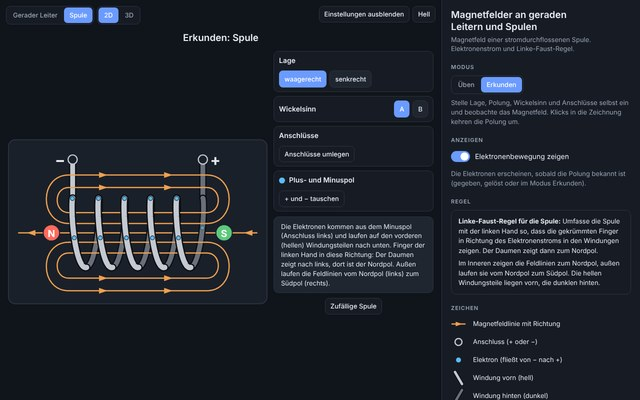
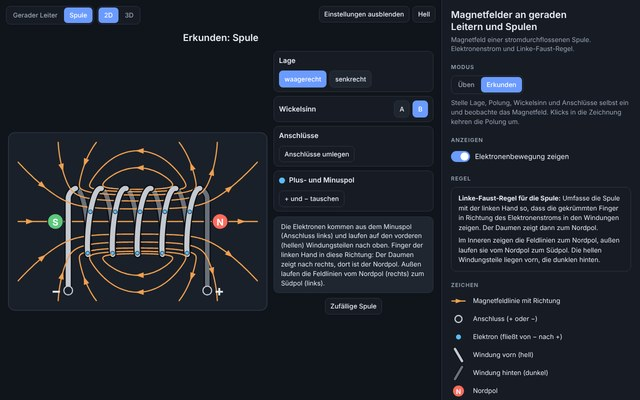
Magnetfelder: berechnete Feldlinien, Zuleitungen ohne Knick, Anschlüsse auf einer Seite
- Feldlinien der Spule per Biot-Savart (Kreisströme, elliptische Integrale) berechnet
- Zuleitungen verlassen die letzte Windung tangential, beide Anschlüsse immer auf derselben Seite
- Im Modus Üben keine Elektronen

Claude-Session: https://claude.ai/code/session_016VMU7oA2U7Nx9wM4hpwUyH

diff --git a/magnetfelder/index.html b/magnetfelder/index.html
@@ -188,10 +188,9 @@ section{min-width:0}
       <div class="chips" id="givenChips"></div>
     </section>
 
-    <section>
+    <section id="elecBox">
       <h2>Anzeigen</h2>
       <label class="sw"><input type="checkbox" id="tElec" checked><span class="track"></span>Elektronenbewegung zeigen</label>
-      <p class="note">Die Elektronen erscheinen, sobald die Polung bekannt ist (gegeben, gelöst oder im Modus Erkunden).</p>
     </section>
 
     <section>
@@ -1425,12 +1424,14 @@ window.__v3init = function(){
       var GS = MF.GS, r = MF.coilRange(c), n = Math.round((r[1] - r[0]) / TAU * 40), pts2 = [];
       for (var i2 = 0; i2 <= n; i2++) { var q2 = MF.coilPt(c, r[0] + (r[1] - r[0]) * i2 / n); pts2.push(W(c, q2.u, q2.v, q2.w)); }
       root.add(tube(pts2, 0.06, mWire, false));
-      MF.coilEnds(c).forEach(function(e, k){
-        var a = W(c, e.u, e.sv * GS.R, 0), b = W(c, e.u, e.sv * GS.lead, 0);
-        root.add(bar(a, b, 0.06, mWire));
-        var tm = new THREE.Mesh(new THREE.SphereGeometry(0.11, 24, 16), mTerm); tm.position.copy(b); root.add(tm);
-        var s = vis.el == null ? '?' : ((vis.el * (k === 0 ? 1 : -1) > 0) ? '−' : '+');
-        var bd = signBadge(s, vis.marks.el === 'bad'); bd.position.copy(W(c, e.u - e.d * 30, e.sv * GS.lead, 0)); root.add(bd);
+      MF.coilEnds(c).forEach(function(e){
+        var lp = e.pts.map(function(q){ return W(c, q.u, q.v, q.w); });
+        var bend = lp.slice(0, lp.length - 1);
+        root.add(tube(bend, 0.06, mWire, false));
+        root.add(bar(lp[lp.length - 2], lp[lp.length - 1], 0.06, mWire));
+        var tm = new THREE.Mesh(new THREE.SphereGeometry(0.11, 24, 16), mTerm); tm.position.copy(lp[lp.length - 1]); root.add(tm);
+        var s = vis.el == null ? '?' : ((vis.el * (e.k === 0 ? 1 : -1) > 0) ? '−' : '+');
+        var bd = signBadge(s, vis.marks.el === 'bad'); bd.position.copy(W(c, e.term.u + e.tau * 32, e.term.v, e.term.w)); root.add(bd);
       });
       [-1, 1].forEach(function(d){
         var k = vis.mag == null ? '?' : (vis.mag * d > 0 ? 'N' : 'S');
@@ -1438,27 +1439,27 @@ window.__v3init = function(){
         var bd = badge(k, fillc, k === '?' ? css('--unk', '#8a94a6') : '#ffffff', 0.5, k === '?');
         bd.position.copy(W(c, d * (GS.L / 2 + 44), 0, 0)); root.add(bd);
       });
-      // Feldlinien: geschlossene Schleifen in sechs Halbebenen um die Achse
-      var L = GS.L, xin = L / 2 + 8;
-      function bez(p0, p1, p2, p3, t){ var s = 1 - t; return s*s*s*p0 + 3*s*s*t*p1 + 3*s*t*t*p2 + t*t*t*p3; }
-      GS.loops.forEach(function(lp){
-        var vi = lp.vi * GS.R, H = GS.R + lp.H, A = L / 2 + lp.A, path = [], j;
-        for (j = 0; j < 10; j++) path.push([-xin + 2 * xin * j / 10, vi]);
-        for (j = 0; j < 12; j++) { var t = j / 12; path.push([bez(xin, A, A, xin, t), bez(vi, vi, H, H, t)]); }
-        for (j = 0; j < 10; j++) path.push([xin - 2 * xin * j / 10, H]);
-        for (j = 0; j < 12; j++) { var t2 = j / 12; path.push([bez(-xin, -A, -A, -xin, t2), bez(H, H, vi, vi, t2)]); }
-        for (var az = 0; az < 6; az++) {
-          var al = az * TAU / 6 + Math.PI / 2, ca = Math.cos(al), sa = Math.sin(al);
-          root.add(tube(path.map(function(p){ return W(c, p[0], p[1] * ca, p[1] * sa); }), 0.011, mFl, true));
-          if (vis.feld != null) [-L / 4, L / 4].forEach(function(uu){
-            var p = W(c, uu, H * ca, H * sa), q = W(c, uu - vis.feld, H * ca, H * sa);
-            root.add(cone(p, q.sub(p), mFl));
-          });
-        }
+      // Feldlinien (berechnet, wie in 2D) in vier Halbebenen um die Achse
+      var F = MF.coilField(), AZ = [0.25, 0.75, 1.25, 1.75].map(function(x){ return x * Math.PI; });
+      AZ.forEach(function(al){
+        var ca = Math.cos(al), sa = Math.sin(al);
+        F.clipped.forEach(function(cl){
+          if (cl.sv < 0 || cl.pts.length < 2) return;
+          var pts = cl.pts.map(function(p){ return W(c, p[0], p[1] * ca, p[1] * sa); });
+          var closed = pts[0].distanceTo(pts[pts.length - 1]) < 0.03;
+          if (closed) pts.pop();
+          root.add(tube(pts, 0.011, mFl, closed));
+        });
+        if (vis.feld != null) F.runs.forEach(function(rn){
+          if (rn.sv < 0 || rn.inner || MF.runLen(rn.pts) <= 70) return;
+          var m = MF.runMid(rn.pts), p = W(c, m.p[0], m.p[1] * ca, m.p[1] * sa);
+          var q = W(c, m.p[0] + vis.feld * m.d[0], (m.p[1] + vis.feld * m.d[1]) * ca, (m.p[1] + vis.feld * m.d[1]) * sa);
+          root.add(cone(p, q.sub(p), mFl));
+        });
       });
-      root.add(bar(W(c, -L / 2 - GS.axis, 0, 0), W(c, L / 2 + GS.axis, 0, 0), 0.011, mFl));
+      root.add(bar(W(c, -F.BU, 0, 0), W(c, F.BU, 0, 0), 0.011, mFl));
       if (vis.feld != null) [-1, 1].forEach(function(d){
-        var p = W(c, d * (L / 2 + GS.axis - 22), 0, 0), q = W(c, d * (L / 2 + GS.axis - 22) + vis.feld, 0, 0);
+        var p = W(c, d * (F.BU - 30), 0, 0), q = W(c, d * (F.BU - 30) + vis.feld, 0, 0);
         root.add(cone(p, q.sub(p), mFl));
       });
       if (vis.elec) {
@@ -1529,13 +1530,13 @@ var $ = function(id){ return document.getElementById(id); };
 var svg = $('pSvg'), ctrl = $('pCtrl');
 var K = 0.3, KS = 0.16, C0 = 250, TAU = Math.PI * 2;
 var GL = { half:175, R:80, rings:[-120, -60, 0, 60, 120], term:192 };
-var GS = { L:270, R:72, N:5, lead:152, loops:[{ vi:0.58, H:22, A:40 }, { vi:0.27, H:48, A:70 }], axis:112 };
+var GS = { L:270, R:72, N:5, lead:150 };
 
 /* ---------- Zustand ---------- */
 var st = {
   obj:'spule', dim:'2d', mode:'practice', elec:true,
   ex:{ leiter:{ type:'leiter', orient:'v', e:1 },
-       spule:{ type:'spule', orient:'h', h:1, s0:0, x:0, e:1 } },
+       spule:{ type:'spule', orient:'h', h:1, s0:0, x:0, T:1, e:1 } },
   given:{ leiter:'rand', spule:'rand' },
   task:{ leiter:null, spule:null },
   n:0, ok:0
@@ -1560,9 +1561,115 @@ function coilPt(c, phi){
   var r = coilRange(c), t = (phi - r[0]) / (r[1] - r[0]);
   return { u:-GS.L / 2 + GS.L * t, v:GS.R * Math.cos(phi), w:c.h * GS.R * Math.sin(phi) };
 }
+/* Zuleitungen: verlassen die letzte Windung tangential (kein Knick), biegen zur Anschlussseite T um
+   und laufen dann gerade zum Anschluss. Beide Anschlüsse liegen immer auf derselben Seite (T). */
 function coilEnds(c){
-  var r = coilRange(c);
-  return [{ u:-GS.L / 2, sv:Math.round(Math.cos(r[0])), phi:r[0], d:1 }, { u:GS.L / 2, sv:Math.round(Math.cos(r[1])), phi:r[1], d:-1 }];
+  var r = coilRange(c), pitch = GS.L / (r[1] - r[0]), rr = 22;
+  return [0, 1].map(function(k){
+    var phi = r[k], tau = k ? 1 : -1, sv = Math.round(Math.cos(phi)), sw = c.h * sv * tau, ue = tau * GS.L / 2, pts = [];
+    for (var i = 0; i <= 14; i++) {
+      var t = Math.PI / 2 * i / 14;
+      pts.push({ u:ue + tau * (pitch * rr / GS.R * Math.sin(t) + 5 * (1 - Math.cos(2 * t))), v:sv * GS.R + c.T * rr * (1 - Math.cos(t)), w:sw * rr * Math.sin(t) });
+    }
+    var last = pts[pts.length - 1];
+    pts.push({ u:last.u, v:c.T * GS.lead, w:last.w });
+    return { k:k, tau:tau, sv:sv, front:sw > 0, pts:pts, term:pts[pts.length - 1] };
+  });
+}
+
+/* Feldlinien einer Spule (Länge L, Radius R) im Meridianschnitt (u entlang der Achse, p = Abstand von der Achse).
+   Modell: M dicht liegende Kreisströme (Feld eines Kreisstroms über vollständige elliptische Integrale),
+   Integration der Feldlinien mit Runge-Kutta. Ergebnis: rechte Hälften der geschlossenen Linien, Start in der Mitte innen. */
+function fieldLines(L, R, starts, opt){
+  opt = opt || {};
+  var M = 160, us = [];
+  for (var i = 0; i < M; i++) us.push(-L / 2 + L * (i + 0.5) / M);
+  function KE(m){   // vollständige elliptische Integrale K(m), E(m), m = k²
+    var a = 1, b = Math.sqrt(1 - m), c2 = m, s = 0.5 * c2, p2 = 1;
+    for (var n = 0; n < 20 && Math.abs(a - b) > 1e-12; n++) {
+      var an = (a + b) / 2, bn = Math.sqrt(a * b), cn = (a - b) / 2;
+      p2 *= 2; s += p2 * cn * cn / 2; a = an; b = bn;
+    }
+    var K = Math.PI / (2 * a); return [K, K * (1 - s)];
+  }
+  function B(u, p){
+    var bu = 0, bp = 0, a = R, ap = Math.max(Math.abs(p), 1e-6);
+    for (var i = 0; i < M; i++) {
+      var z = u - us[i], q = (a + ap) * (a + ap) + z * z, d = (a - ap) * (a - ap) + z * z + 36, m = 4 * a * ap / q;
+      var ke = KE(Math.min(m, 1 - 1e-12)), sq = Math.sqrt(q);
+      bu += (ke[0] + (a * a - ap * ap - z * z) / d * ke[1]) / sq;
+      bp += z / (ap * sq) * (-ke[0] + (a * a + ap * ap + z * z) / d * ke[1]);
+    }
+    return [bu, p < 0 ? -bp : bp];
+  }
+  function dir(u, p){ var b = B(u, p), n = Math.hypot(b[0], b[1]) || 1; return [b[0] / n, b[1] / n]; }
+  var lim = opt.limit || 900;
+  return starts.map(function(p0){
+    var u = 0, p = p0, pts = [[u, p]], out = false;
+    for (var n = 0; n < 4000; n++) {
+      var h = Math.abs(u) < L / 2 + 20 && p < R + 20 ? 2 : 4;
+      var k1 = dir(u, p), k2 = dir(u + h/2*k1[0], p + h/2*k1[1]), k3 = dir(u + h/2*k2[0], p + h/2*k2[1]), k4 = dir(u + h*k3[0], p + h*k3[1]);
+      var nu = u + h/6*(k1[0] + 2*k2[0] + 2*k3[0] + k4[0]), np = p + h/6*(k1[1] + 2*k2[1] + 2*k3[1] + k4[1]);
+      if (out && nu <= 0) { pts.push([0, p + (np - p) * (u / (u - nu))]); return { pts:pts, closed:true }; }
+      u = nu; p = np; pts.push([u, p]);
+      if (u > L / 2 || p > R + 3) out = true;
+      if (u > lim || p > lim) return { pts:pts, closed:false };
+    }
+    return { pts:pts, closed:false };
+  });
+}
+
+/* Feldlinien der Spule einmal berechnen, auf den Bildausschnitt zuschneiden und in Innen- und Außenstücke teilen.
+   Reihenfolge der Punkte = Feldrichtung, wenn das Feld innen in +u-Richtung zeigt. */
+var FL = null;
+function coilField(){
+  if (FL) return FL;
+  var L = GS.L, R = GS.R, BU = L / 2 + 125, BV = R + 100;
+  var halves = fieldLines(L, R, [0.97, 0.9, 0.8, 0.62, 0.38].map(function(x){ return x * R; }), { limit:900 });
+  var lines = [];
+  halves.forEach(function(h){
+    var Rh = h.pts, Lh = Rh.slice().reverse().map(function(p){ return [-p[0], p[1]]; });
+    var full = h.closed ? Rh.concat(Lh.slice(1)) : Lh.concat(Rh.slice(1));
+    [1, -1].forEach(function(sv){ lines.push({ sv:sv, pts:full.map(function(p){ return [p[0], sv * p[1]]; }) }); });
+  });
+  function clipSeg(a, b){   // Liang-Barsky
+    var t0 = 0, t1 = 1, dx = b[0] - a[0], dy = b[1] - a[1];
+    var pq = [[-dx, a[0] + BU], [dx, BU - a[0]], [-dy, a[1] + BV], [dy, BV - a[1]]];
+    for (var i = 0; i < 4; i++) {
+      var pp = pq[i][0], q = pq[i][1];
+      if (pp === 0) { if (q < 0) return null; continue; }
+      var t = q / pp;
+      if (pp < 0) { if (t > t1) return null; if (t > t0) t0 = t; } else { if (t < t0) return null; if (t < t1) t1 = t; }
+    }
+    return [[a[0] + t0 * dx, a[1] + t0 * dy], [a[0] + t1 * dx, a[1] + t1 * dy], t0 > 0, t1 < 1];
+  }
+  var runs = [], clipped = [];
+  lines.forEach(function(ln){
+    var cur = null, curIn = null, cl = null, pts = ln.pts;
+    for (var i = 0; i < pts.length - 1; i++) {
+      var sg = clipSeg(pts[i], pts[i + 1]);
+      if (!sg) { cur = null; cl = null; continue; }
+      var mu = (sg[0][0] + sg[1][0]) / 2, mv = (sg[0][1] + sg[1][1]) / 2;
+      var inn = Math.abs(mu) < L / 2 && Math.abs(mv) < R;
+      if (!cur || curIn !== inn || sg[2]) { cur = { inner:inn, sv:ln.sv, pts:[sg[0]] }; runs.push(cur); curIn = inn; }
+      cur.pts.push(sg[1]);
+      if (!cl || sg[2]) { cl = { sv:ln.sv, pts:[sg[0]] }; clipped.push(cl); }
+      cl.pts.push(sg[1]);
+      if (sg[3]) { cur = null; cl = null; }
+    }
+  });
+  FL = { runs:runs, clipped:clipped, BU:BU, BV:BV };
+  return FL;
+}
+function runLen(pts){ var s = 0; for (var i = 1; i < pts.length; i++) s += Math.hypot(pts[i][0] - pts[i - 1][0], pts[i][1] - pts[i - 1][1]); return s; }
+function runMid(pts){   // Punkt und Richtung in der Mitte der Bogenlänge
+  var half = runLen(pts) / 2, s = 0;
+  for (var i = 1; i < pts.length; i++) {
+    var d = Math.hypot(pts[i][0] - pts[i - 1][0], pts[i][1] - pts[i - 1][1]);
+    if (s + d >= half) { var t = (half - s) / d; return { p:[pts[i - 1][0] + t * (pts[i][0] - pts[i - 1][0]), pts[i - 1][1] + t * (pts[i][1] - pts[i - 1][1])], d:[(pts[i][0] - pts[i - 1][0]) / d, (pts[i][1] - pts[i - 1][1]) / d] }; }
+    s += d;
+  }
+  return null;
 }
 
 /* ---------- Abbildung auf den Bildschirm ---------- */
@@ -1659,50 +1766,38 @@ function drawSpule(c, vis){
   function wire(list, o, f, wo, wf){
     return list.map(function(pts){ var d = pathOf(pts); return '<path d="' + d + '"' + sty(o, wo) + '/><path d="' + d + '"' + sty(f, wf) + '/>'; }).join('');
   }
-  // Zuleitungen: Farbe wie das anschließende Windungsstück
+  // Zuleitungen: Farbe wie das anschließende Windungsstück (vorn hell, hinten dunkel)
   var ends = coilEnds(c), leadsB = '', leadsF = '', terms = '';
-  ends.forEach(function(e, k){
-    var front = c.h * Math.sin(e.phi + e.d * 1e-3) > 0;
-    var a = P(c, e.u, e.sv * R, 0), b = P(c, e.u, e.sv * GS.lead, 0);
-    var d = 'M' + f1(a[0]) + ' ' + f1(a[1]) + ' L' + f1(b[0]) + ' ' + f1(b[1]);
-    var s = front ? '<path d="' + d + '"' + sty('var(--wire-fo)', 15) + '/><path d="' + d + '"' + sty('var(--wire-f)', 10) + '/>'
-                  : '<path d="' + d + '"' + sty('var(--wire-bo)', 15) + '/><path d="' + d + '"' + sty('var(--wire-b)', 10) + '/>';
-    if (front) leadsF += s; else leadsB += s;
-    var l = P(c, e.u - e.d * 26, e.sv * GS.lead, 0);
-    var sg = vis.el == null ? '?' : ((vis.el * (k === 0 ? 1 : -1) > 0) ? '−' : '+');   // el = +1: Elektronen vom Anfang (−u-Ende) zum Ende
+  ends.forEach(function(e){
+    var d = pathOf(e.pts.map(function(q){ return P(c, q.u, q.v, q.w); }));
+    var s = e.front ? '<path d="' + d + '"' + sty('var(--wire-fo)', 16) + '/><path d="' + d + '"' + sty('var(--wire-f)', 11) + '/>'
+                    : '<path d="' + d + '"' + sty('var(--wire-bo)', 15) + '/><path d="' + d + '"' + sty('var(--wire-b)', 10) + '/>';
+    if (e.front) leadsF += s; else leadsB += s;
+    var b = P(c, e.term.u, e.term.v, e.term.w), l = P(c, e.term.u + e.tau * 26, e.term.v, e.term.w);
+    var sg = vis.el == null ? '?' : ((vis.el * (e.k === 0 ? 1 : -1) > 0) ? '−' : '+');   // el = +1: Elektronen vom Anfang (−u-Ende) zum Ende
     terms += terminal(b[0], b[1]) + sign(l[0], l[1], sg, vis.marks.el === 'bad' ? 'var(--bad)' : null) + hitCircle(l[0], l[1], 20) + hitCircle(b[0], b[1], 16);
   });
-  // Feldlinien: geschlossene Schleifen aus Innenlinie und Außenbogen
-  var inner = '', outer = '', hits = '', arrows = '';
-  var xin = L / 2 + 8;
-  [1, -1].forEach(function(sv){
-    GS.loops.forEach(function(lp){
-      var vi = sv * lp.vi * R, H = sv * (R + lp.H), A = L / 2 + lp.A;
-      function Q(u, v){ return P(c, u, v, 0); }
-      var a1 = Q(-xin, vi), a2 = Q(xin, vi);
-      inner += '<path d="M' + f1(a1[0]) + ' ' + f1(a1[1]) + ' L' + f1(a2[0]) + ' ' + f1(a2[1]) + '"' + sty(flc, 2.6) + '/>';
-      var c1 = Q(A, vi), c2 = Q(A, H), e1 = Q(xin, H), e2 = Q(-xin, H), c3 = Q(-A, H), c4 = Q(-A, vi);
-      var d = 'M' + f1(a2[0]) + ' ' + f1(a2[1]) + ' C' + f1(c1[0]) + ' ' + f1(c1[1]) + ' ' + f1(c2[0]) + ' ' + f1(c2[1]) + ' ' + f1(e1[0]) + ' ' + f1(e1[1]) +
-              ' L' + f1(e2[0]) + ' ' + f1(e2[1]) + ' C' + f1(c3[0]) + ' ' + f1(c3[1]) + ' ' + f1(c4[0]) + ' ' + f1(c4[1]) + ' ' + f1(a1[0]) + ' ' + f1(a1[1]);
-      outer += '<path d="' + d + '"' + sty(flc, 2.6) + '/>';
-      hits += hitPath(d, 16);
-      if (vis.feld != null) {   // außen von N nach S, also entgegen dem Feld im Inneren
-        [-L / 4, L / 4].forEach(function(uu){
-          var p0 = Q(uu, H), p1 = Q(uu - vis.feld, H);
-          arrows += head(p0[0], p0[1], p1[0] - p0[0], p1[1] - p0[1], flc, 8);
-        });
-      }
-    });
+  // Feldlinien (berechnet): Innenstücke liegen zwischen hinteren und vorderen Windungen
+  var F = coilField(), inner = '', outer = '', hits = '', arrows = '';
+  F.runs.forEach(function(rn){
+    var d = pathOf(rn.pts.map(function(q){ return P(c, q[0], q[1], 0); }));
+    if (rn.inner) { inner += '<path d="' + d + '"' + sty(flc, 2.6) + '/>'; return; }
+    outer += '<path d="' + d + '"' + sty(flc, 2.6) + '/>';
+    hits += hitPath(d, 16);
+    if (vis.feld != null && runLen(rn.pts) > 70) {
+      var m = runMid(rn.pts), p0 = P(c, m.p[0], m.p[1], 0), p1 = P(c, m.p[0] + vis.feld * m.d[0], m.p[1] + vis.feld * m.d[1], 0);
+      arrows += head(p0[0], p0[1], p1[0] - p0[0], p1[1] - p0[1], flc, 8);
+    }
   });
-  // Mittellinie (Achse), ragt an beiden Enden heraus
-  var m1 = P(c, -L / 2 - GS.axis, 0, 0), m2 = P(c, L / 2 + GS.axis, 0, 0);
+  // Mittellinie (Achse)
+  var m1 = P(c, -F.BU, 0, 0), m2 = P(c, F.BU, 0, 0);
   var axisL = '<path d="M' + f1(m1[0]) + ' ' + f1(m1[1]) + ' L' + f1(m2[0]) + ' ' + f1(m2[1]) + '"' + sty(flc, 2.6) + '/>';
   if (vis.feld != null) [-1, 1].forEach(function(d){
-    var p0 = P(c, d * (L / 2 + GS.axis - 22), 0, 0), p1 = P(c, d * (L / 2 + GS.axis - 22) + vis.feld, 0, 0);
+    var p0 = P(c, d * (F.BU - 30), 0, 0), p1 = P(c, d * (F.BU - 30) + vis.feld, 0, 0);
     arrows += head(p0[0], p0[1], p1[0] - p0[0], p1[1] - p0[1], flc, 8);
   });
   out.push(hot('feld', axisL, 'Feldrichtung umkehren', vis.hot.feld));
-  out.push(leadsB + wire(runs.b, 'var(--wire-bo)', 'var(--wire-b)', 15, 10));
+  out.push(wire(runs.b, 'var(--wire-bo)', 'var(--wire-b)', 15, 10) + leadsB);
   out.push('<g id="eBack"></g>');
   out.push(hot('feld', inner, 'Feldrichtung umkehren', vis.hot.feld));
   out.push(leadsF + wire(runs.f, 'var(--wire-fo)', 'var(--wire-f)', 16, 11));
@@ -1807,7 +1902,7 @@ function tipText(obj, task){
 /* ---------- Aufgaben ---------- */
 function randomCfg(obj){
   if (obj === 'leiter') return { type:'leiter', orient:rnd(['v', 'h']), e:sgn() };
-  return { type:'spule', orient:rnd(['h', 'h', 'v']), h:sgn(), s0:rnd([0, 1]), x:rnd([0, 1]), e:sgn() };
+  return { type:'spule', orient:rnd(['h', 'h', 'v']), h:sgn(), s0:rnd([0, 1]), x:rnd([0, 1]), T:sgn(), e:sgn() };
 }
 function newTask(obj){
   obj = obj || st.obj;
@@ -1835,8 +1930,7 @@ function currentScene(){
     if (q === task.given || task.done) v[q] = tr[q];
     else { v[q] = task.user[q]; v.hot[q] = true; }
   });
-  var polQ = obj === 'leiter' ? 'pol' : 'el';
-  v.elec = st.elec && (task.given === polQ || task.done);
+  v.elec = false;   // im Modus Üben keine Elektronen (David)
   return { c:task.c, vis:v };
 }
 function draw(){
@@ -1959,7 +2053,7 @@ ctrl.addEventListener('click', function(ev){
     var c = st.ex[st.obj];
     if (b.dataset.k) { c[b.dataset.k] = b.dataset.k === 'orient' ? b.dataset.v : Number(b.dataset.v); }
     else if (b.dataset.x === 'e') c.e *= -1;
-    else if (b.dataset.x === 'leads') { var i = (c.s0 * 2 + c.x + 1) % 4; c.s0 = i >> 1; c.x = i & 1; }
+    else if (b.dataset.x === 'leads') { var i = (c.s0 * 4 + c.x * 2 + (c.T > 0 ? 1 : 0) + 1) % 8; c.s0 = i >> 2; c.x = (i >> 1) & 1; c.T = i & 1 ? 1 : -1; }
     else if (b.dataset.x === 'rand') st.ex[st.obj] = randomCfg(st.obj);
     render(); return;
   }
@@ -1992,6 +2086,7 @@ function setMode(m){
   $('mPractice').setAttribute('aria-pressed', String(m === 'practice'));
   $('mExplore').setAttribute('aria-pressed', String(m === 'explore'));
   $('givenBox').hidden = $('scoreBox').hidden = m !== 'practice';
+  $('elecBox').hidden = m === 'practice';
   $('mNote').textContent = m === 'practice'
     ? (st.obj === 'leiter' ? 'Eine Angabe ist gegeben (Feldlinien oder Polung). Bestimme die andere.' : 'Eine Angabe ist gegeben. Bestimme die beiden anderen: Feldlinien außen, Nord- und Südpol, Plus- und Minuspol.')
     : 'Stelle Lage, Polung' + (st.obj === 'spule' ? ', Wickelsinn und Anschlüsse' : '') + ' selbst ein und beobachte das Magnetfeld. Klicks in die Zeichnung kehren die Polung um.';
@@ -2043,7 +2138,7 @@ $('theme').addEventListener('click', function(){
 });
 
 window.__mf = { st:st, truth:truth, render:render, draw:draw, newTask:newTask, setObj:setObj, setMode:setMode, setDim:setDim, check:check, flipQ:flipQ,
-                coilPt:coilPt, coilRange:coilRange, coilEnds:coilEnds, GL:GL, GS:GS, K:K, currentScene:currentScene, explain:explain };
+                coilPt:coilPt, coilRange:coilRange, coilEnds:coilEnds, coilField:coilField, runLen:runLen, runMid:runMid, GL:GL, GS:GS, K:K, currentScene:currentScene, explain:explain };
 var so = null, sm = null;
 try { so = localStorage.getItem('magnetfelder-form'); sm = localStorage.getItem('magnetfelder-modus'); } catch (e) {}
 st.mode = sm === 'explore' ? 'explore' : 'practice';
